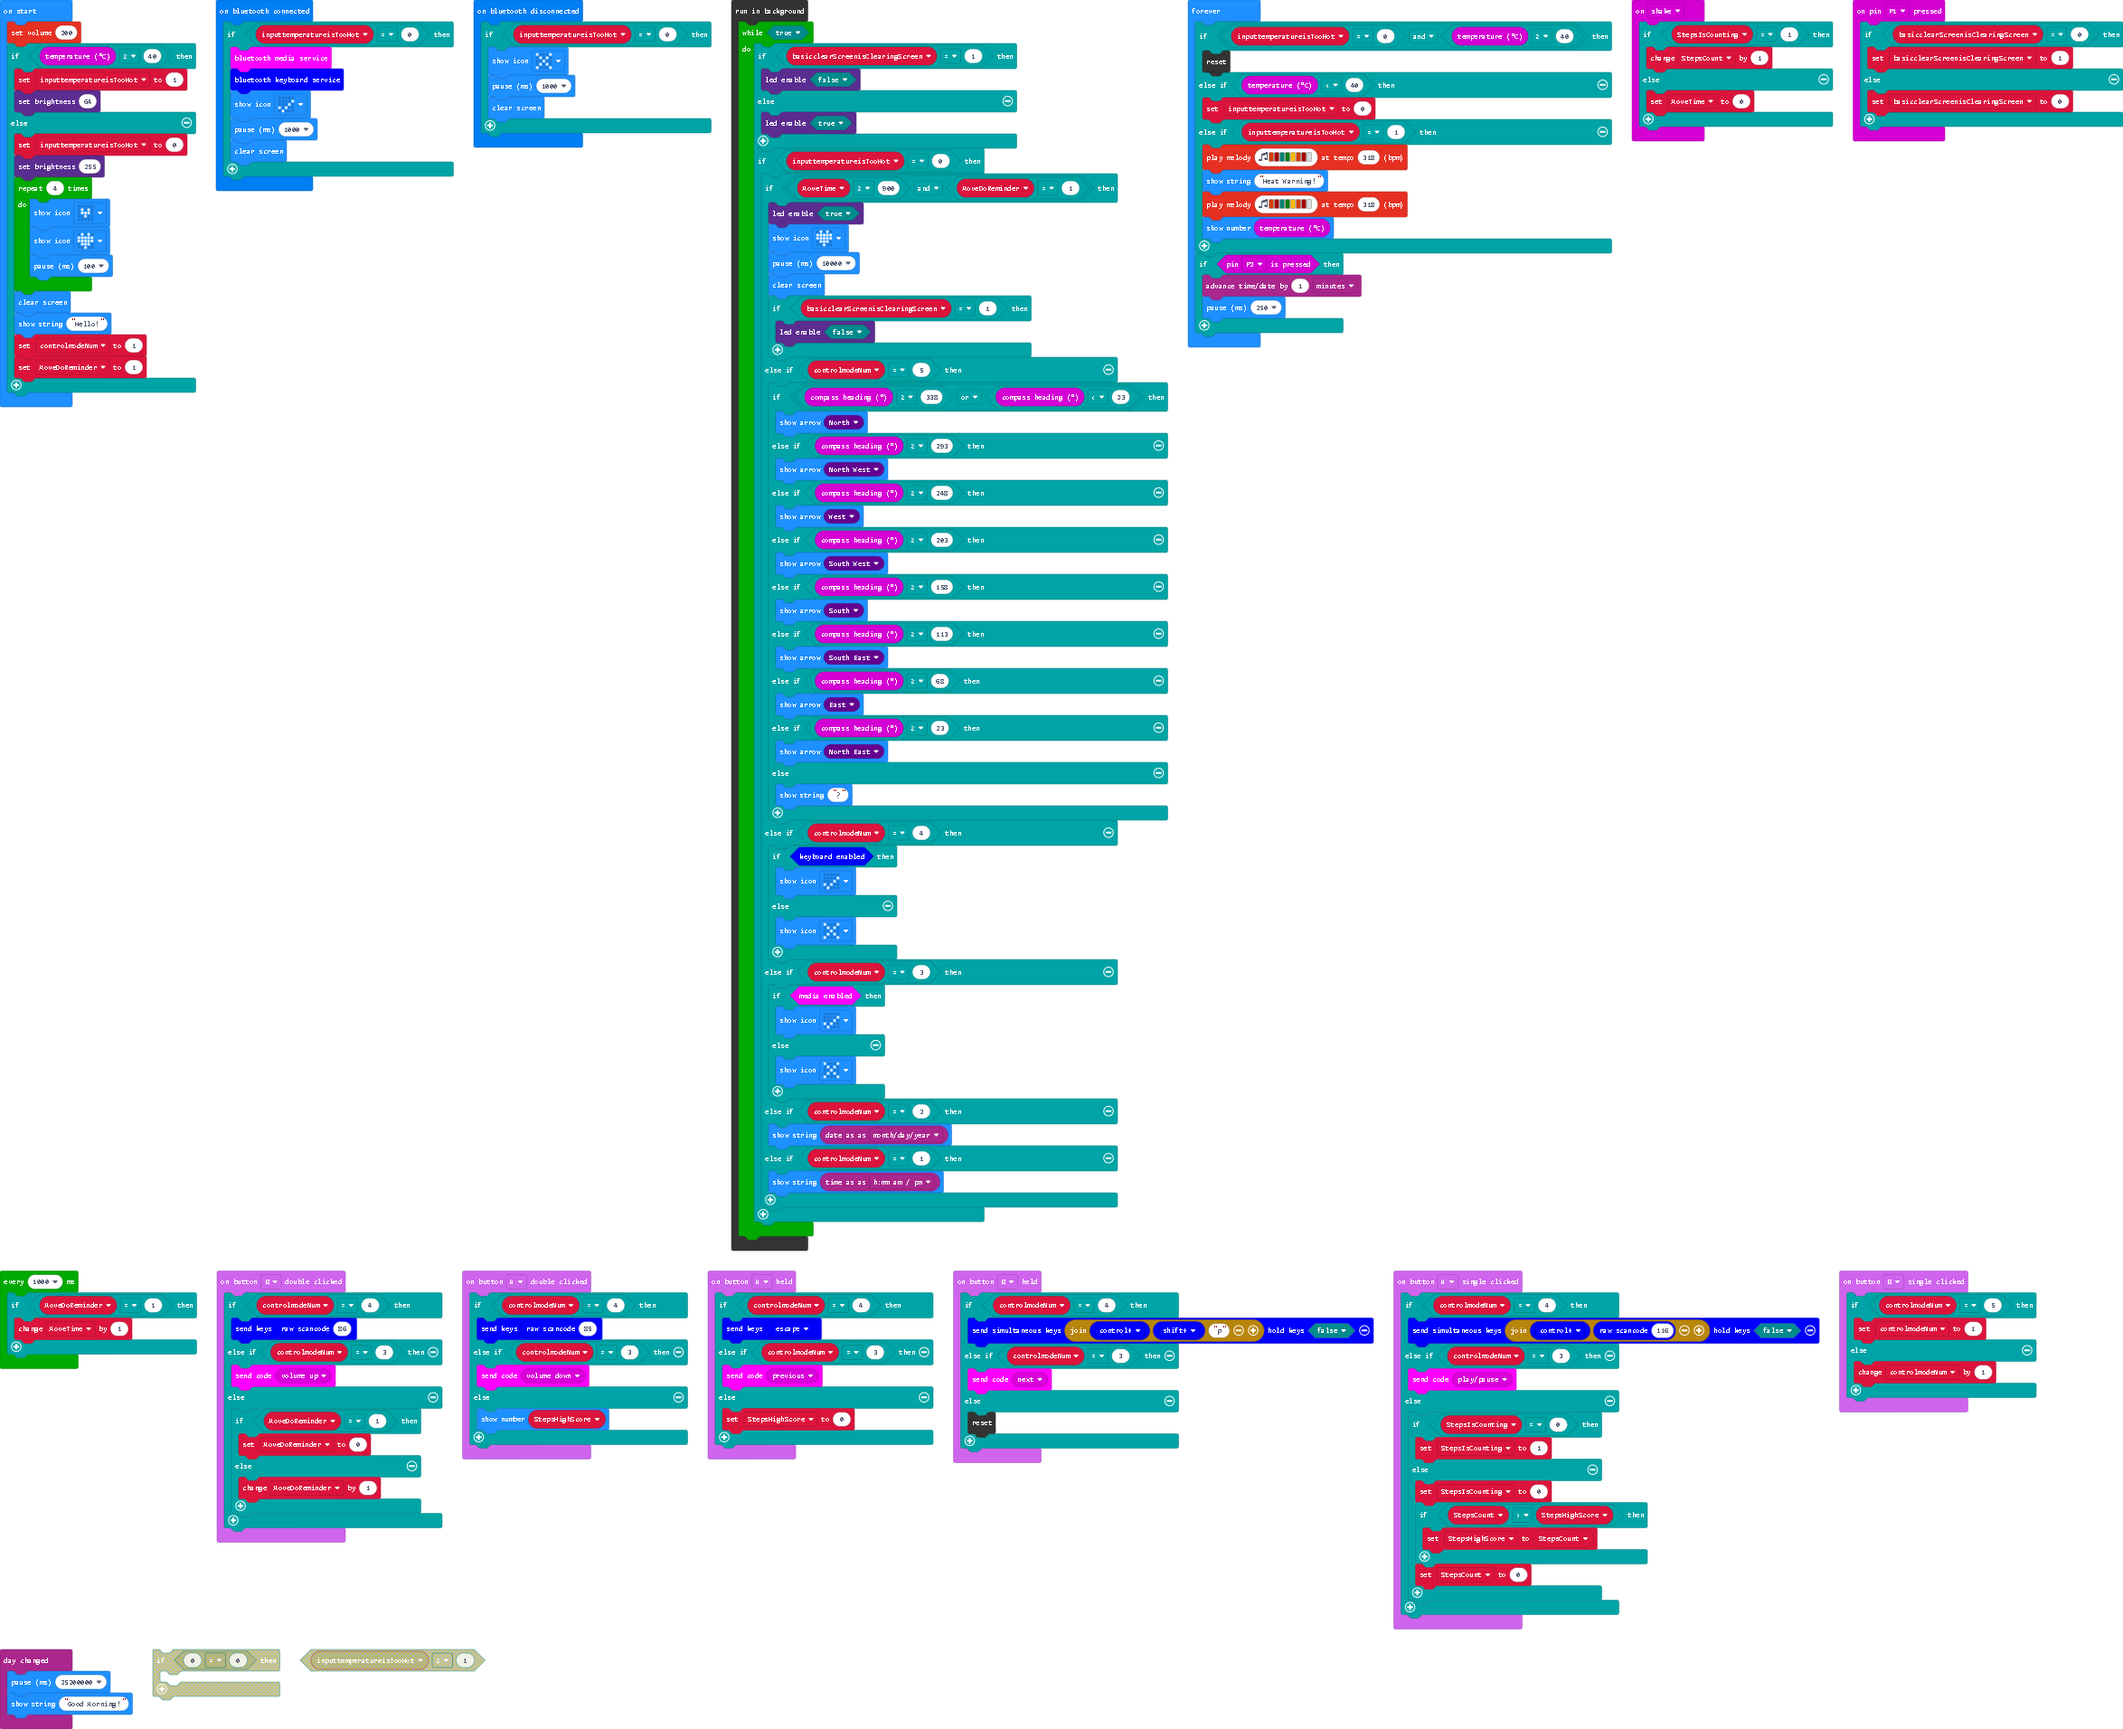
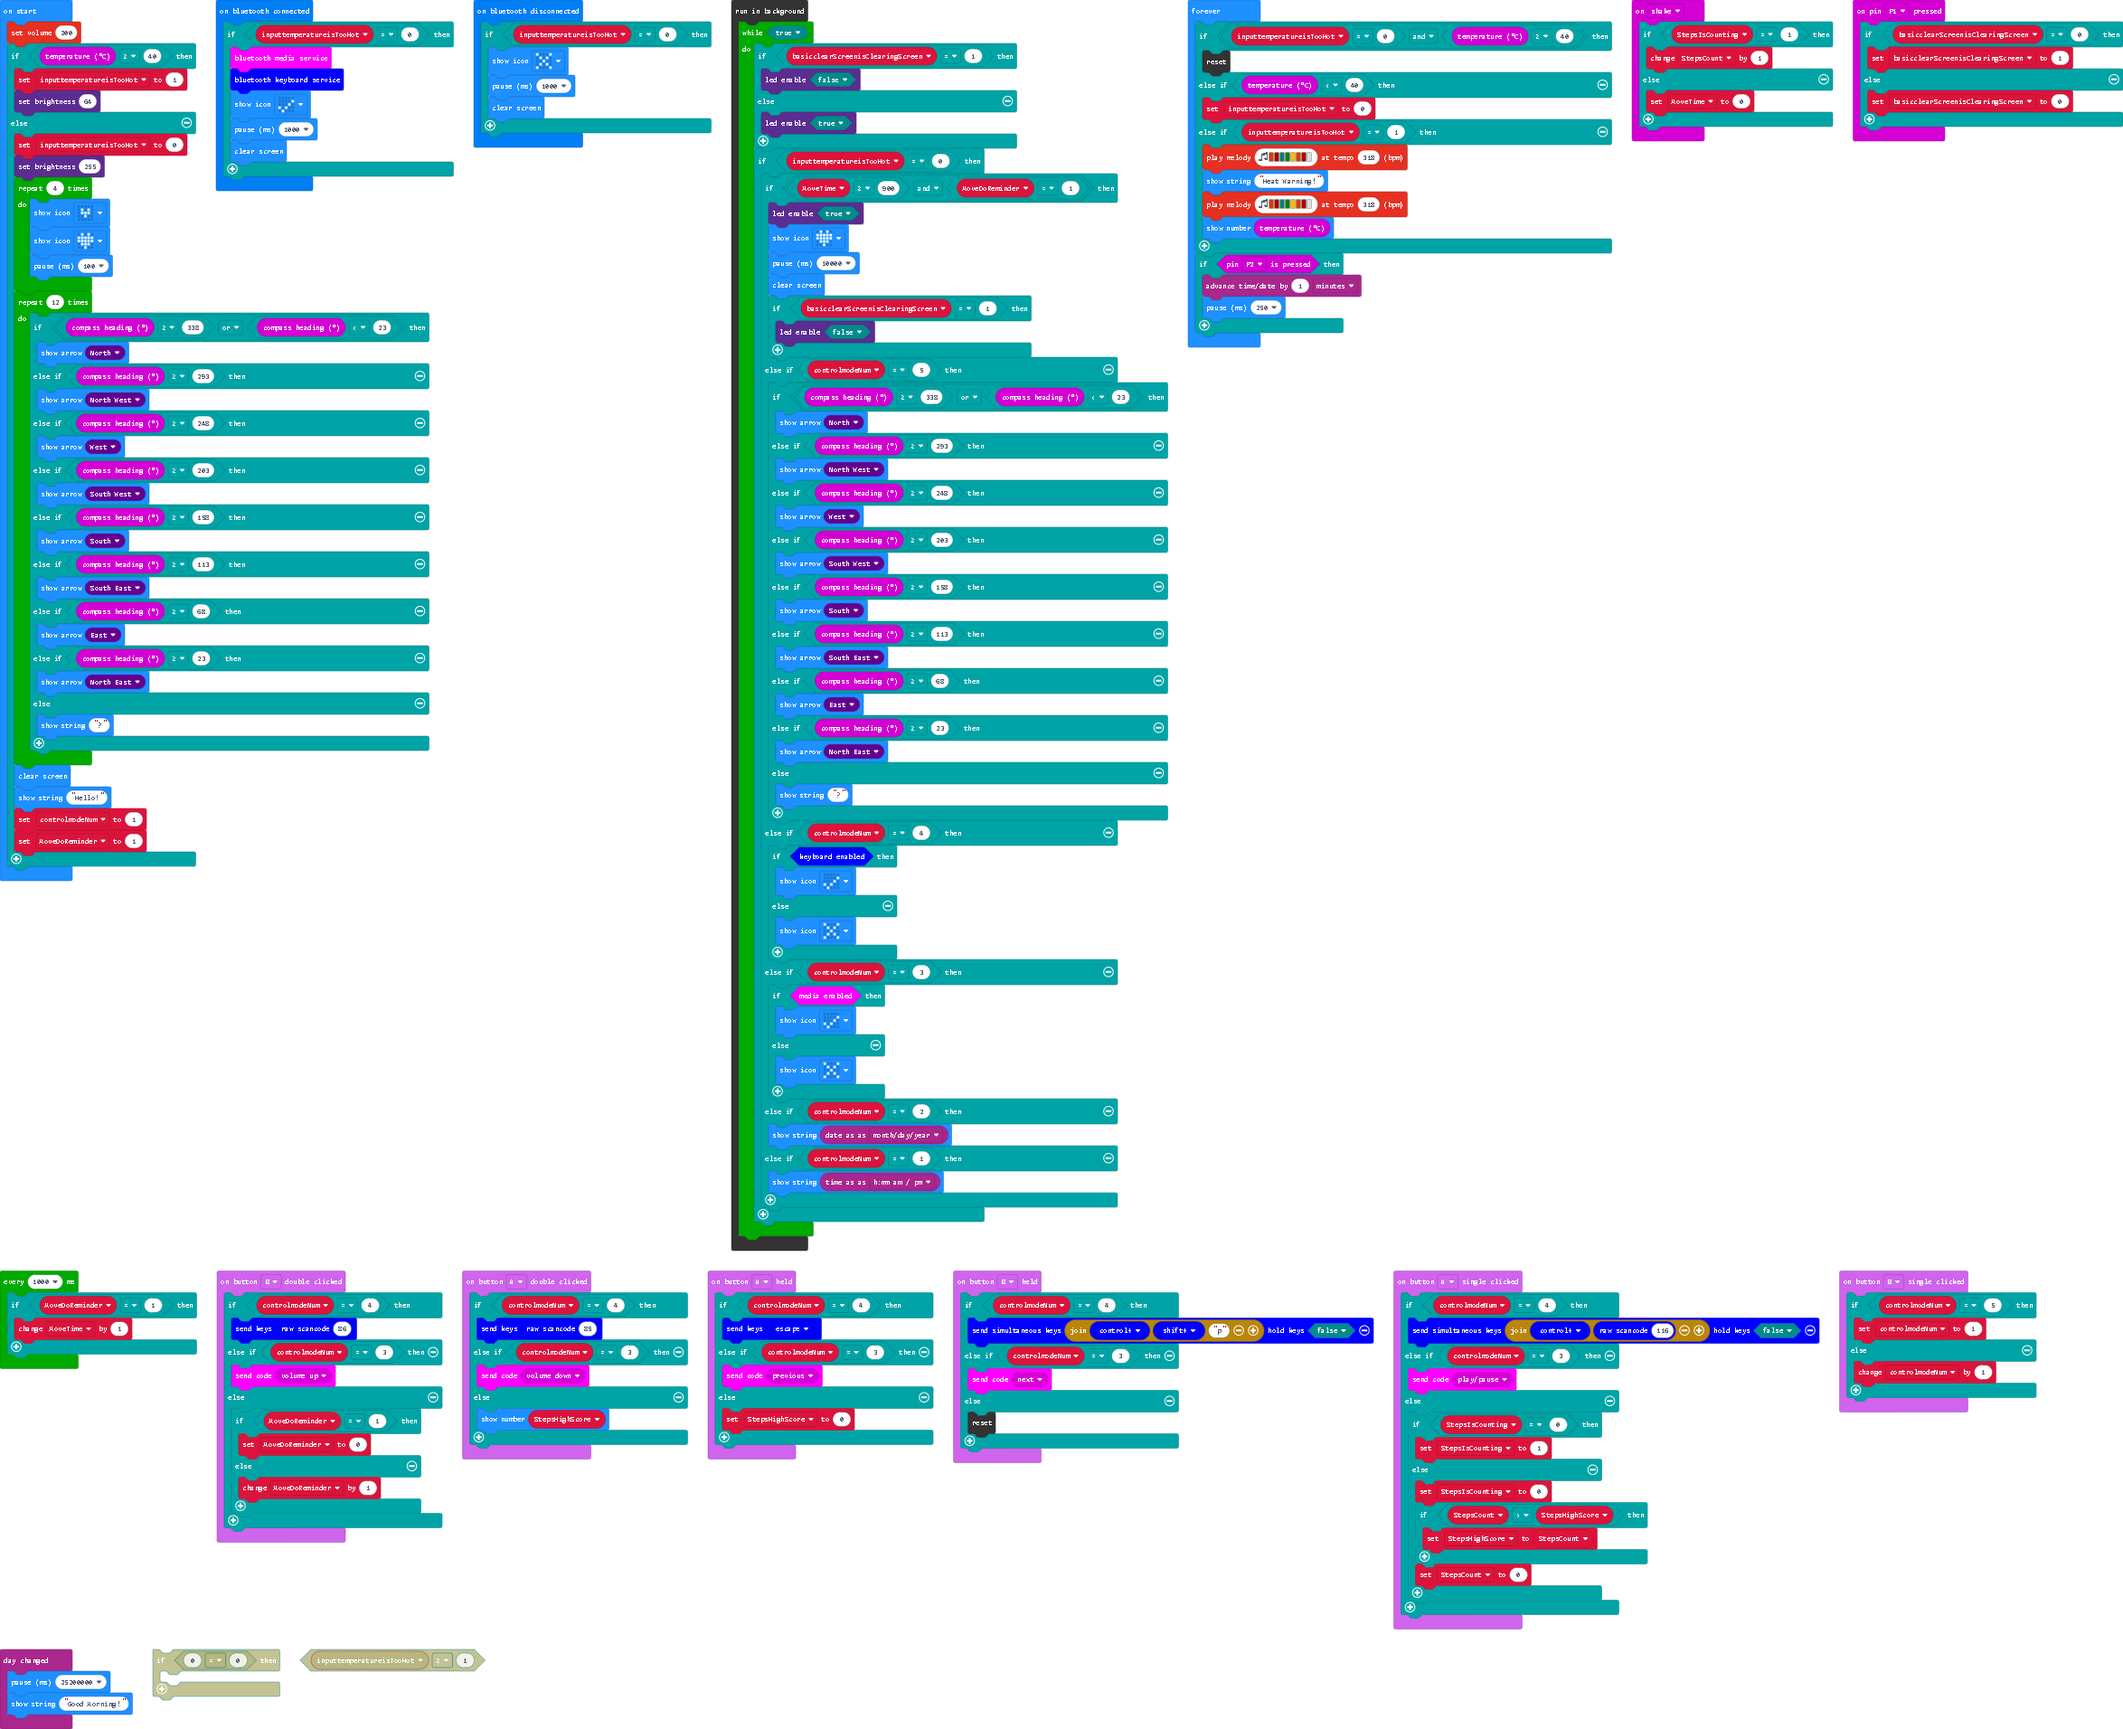
Improved intro screen.

Changed region(s): [[0.0, 0.1543, 0.2176, 0.5246]]

diff --git a/main.ts b/main.ts
@@ -116,6 +116,27 @@ if (input.temperature() >= 40) {
         basic.showIcon(IconNames.Heart)
         basic.pause(100)
     }
+    for (let index = 0; index < 12; index++) {
+        if (input.compassHeading() >= 338 || input.compassHeading() < 23) {
+            basic.showArrow(ArrowNames.North)
+        } else if (input.compassHeading() >= 293) {
+            basic.showArrow(ArrowNames.NorthWest)
+        } else if (input.compassHeading() >= 248) {
+            basic.showArrow(ArrowNames.West)
+        } else if (input.compassHeading() >= 203) {
+            basic.showArrow(ArrowNames.SouthWest)
+        } else if (input.compassHeading() >= 158) {
+            basic.showArrow(ArrowNames.South)
+        } else if (input.compassHeading() >= 113) {
+            basic.showArrow(ArrowNames.SouthEast)
+        } else if (input.compassHeading() >= 68) {
+            basic.showArrow(ArrowNames.East)
+        } else if (input.compassHeading() >= 23) {
+            basic.showArrow(ArrowNames.NorthEast)
+        } else {
+            basic.showString("?")
+        }
+    }
     basic.clearScreen()
     basic.showString("Hello!")
     controlmodeNum = 1
